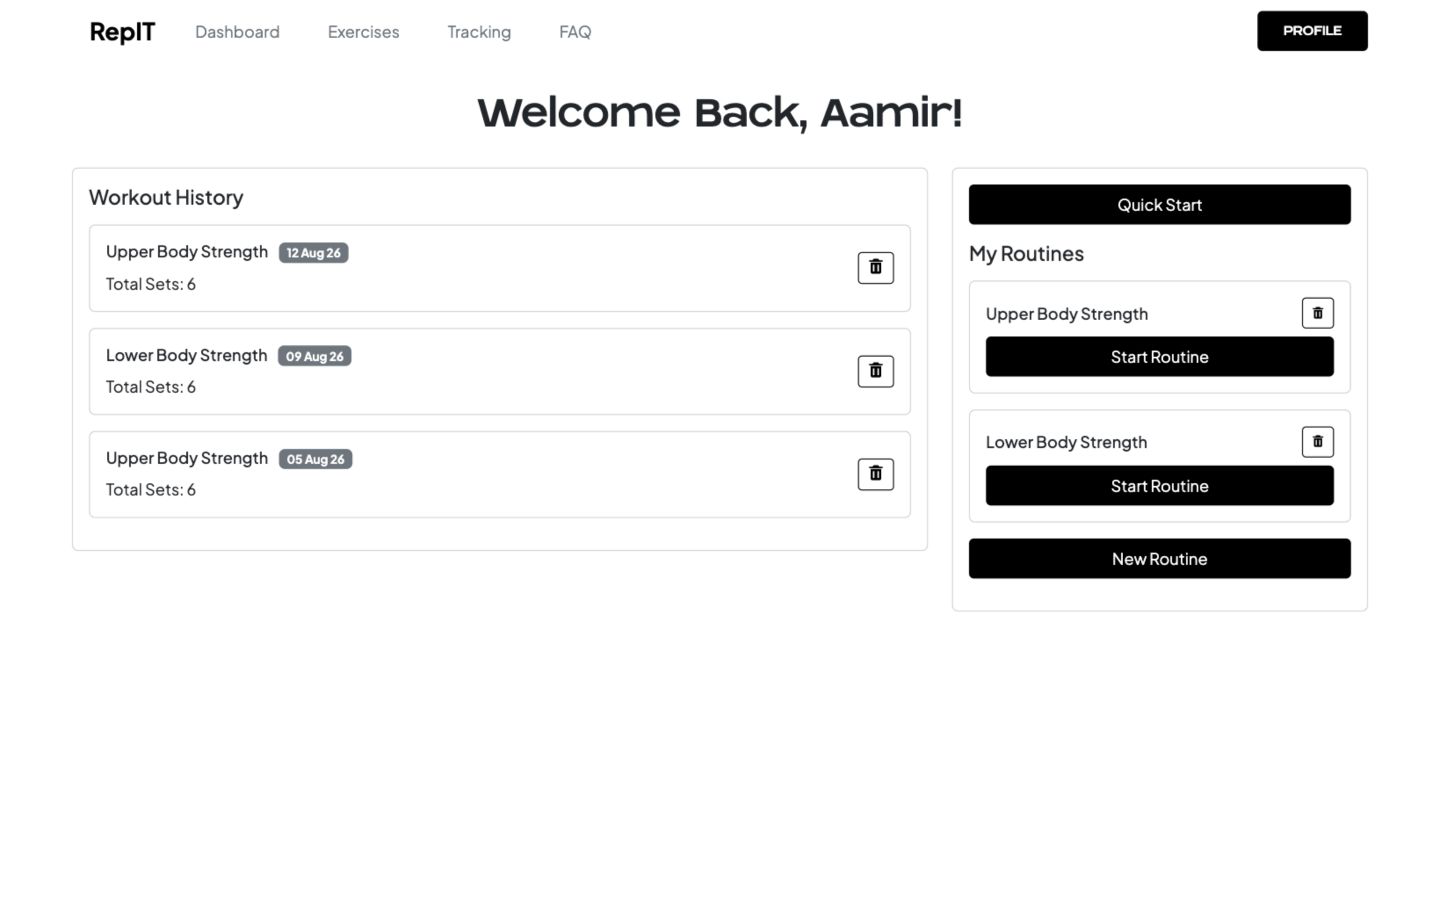
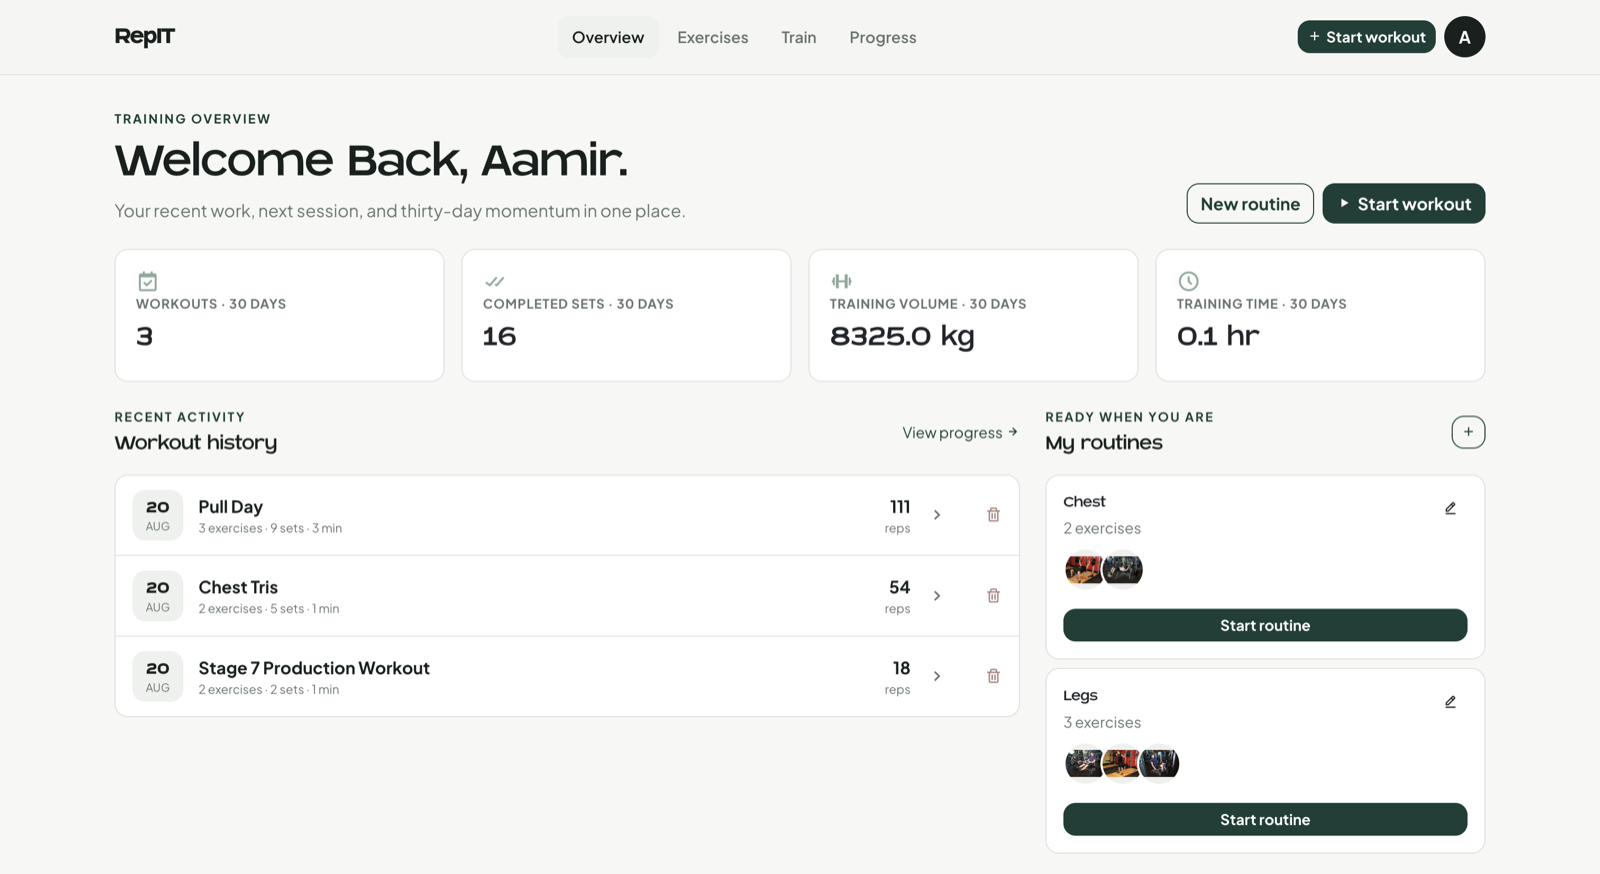
Refresh RepIT and VibeCheck case studies

diff --git a/app/templates/project_detail.html b/app/templates/project_detail.html
@@ -27,8 +27,11 @@
             <p>{{ project.summary }}</p>
             <div class="case-study-actions">
               <a class="button button-primary" href="#brief">Read the case study <span aria-hidden="true">↓</span></a>
+              {% if project.live_url %}
+                <a class="case-study-repository" href="{{ project.live_url }}" target="_blank" rel="noreferrer">View live demo <span aria-hidden="true">&#8599;&#xfe0e;</span><span class="visually-hidden"> (opens in a new tab)</span></a>
+              {% endif %}
               {% if project.repository_url %}
-                <a class="case-study-repository" href="{{ project.repository_url }}" target="_blank" rel="noreferrer">View repository <span aria-hidden="true">↗</span><span class="visually-hidden"> (opens in a new tab)</span></a>
+                <a class="case-study-repository" href="{{ project.repository_url }}" target="_blank" rel="noreferrer">View repository <span aria-hidden="true">&#8599;&#xfe0e;</span><span class="visually-hidden"> (opens in a new tab)</span></a>
               {% endif %}
             </div>
           </div>
@@ -41,7 +44,7 @@
                 <dd>{{ project.role }}</dd>
               </div>
               <div>
-                <dt>Selected evidence</dt>
+                <dt>Key result</dt>
                 <dd>{{ project.highlight }}</dd>
               </div>
               <div>

diff --git a/app/data/projects.py b/app/data/projects.py
@@ -8,7 +8,7 @@ FEATURED_PROJECTS = (
             "A research platform that connects academic metadata, citation graphs, "
             "and semantic embeddings to make relevant papers easier to discover."
         ),
-        "highlight": "29 API endpoints",
+        "highlight": "29 endpoints · 32 tests",
         "technologies": ("FastAPI", "PostgreSQL", "pgvector", "Docker"),
         "role": "Individual project",
         "repository_url": "https://github.com/aamirk24/scholargraph",
@@ -48,7 +48,7 @@ FEATURED_PROJECTS = (
             "A server-authoritative multiplayer strategy game with a minimax opponent, "
             "real-time rooms, and resilient player reconnection."
         ),
-        "highlight": "54 passing tests",
+        "highlight": "70% dissertation · 54 tests",
         "technologies": ("Python", "Flask", "Socket.IO", "pytest"),
         "role": "Individual dissertation",
         "repository_url": "https://github.com/aamirk24/Nonaga",
@@ -82,41 +82,43 @@ FEATURED_PROJECTS = (
     {
         "slug": "repit",
         "title": "RepIT",
-        "category": "Full-stack software",
+        "category": "Full-stack / Data",
         "year": "2025",
         "summary": (
-            "A workout platform for building routines, logging live sessions, and "
-            "tracking body measurements through a relational data model."
+            "A production-deployed strength-training platform for planning routines, "
+            "recording recoverable workouts, and analysing long-term progress."
         ),
-        "highlight": "1,500+ exercises cached",
-        "technologies": ("Flask", "SQLAlchemy", "JavaScript", "Chart.js"),
+        "highlight": "Live product · 35 tests",
+        "technologies": ("Flask", "PostgreSQL", "SQLAlchemy", "Chart.js"),
         "role": "Individual project",
-        "repository_url": None,
+        "repository_url": "https://github.com/aamirk24/RepIT",
+        "live_url": "https://repit-inq2.onrender.com/",
         "hero_image": "images/projects/repit-landing.png",
-        "hero_image_alt": "RepIT landing page with a fitness-focused hero and sign-up action",
-        "hero_image_caption": "The public entry point establishes RepIT as a focused workout-planning product.",
+        "hero_image_alt": "RepIT landing page introducing its strength-training workflow and dashboard",
+        "hero_image_caption": "The public product entry point connects planning, live training, and progress in one workflow.",
         "secondary_image": "images/projects/repit-dashboard.png",
-        "secondary_image_alt": "RepIT welcome-back dashboard showing workout history and saved routines",
-        "secondary_image_caption": "Workout history and reusable routines brought together in the signed-in dashboard.",
+        "secondary_image_alt": "RepIT dashboard showing training statistics, recent workouts, and a saved routine",
+        "secondary_image_caption": "Training totals, recent activity, and the next reusable routine in the signed-in dashboard.",
         "overview": (
-            "RepIT was designed to make workout planning and progress tracking part of "
-            "one continuous flow, from saving routines to logging sets during a live "
-            "session and reviewing body measurements later."
+            "RepIT connects routine planning, active workout tracking, immutable history, "
+            "strength analytics, and body measurements rather than treating them as "
+            "separate tools. It began as a university Flask project and was rebuilt into "
+            "a deployed product with explicit data-integrity and operational boundaries."
         ),
         "contribution": (
-            "I built the Flask application independently, including authentication, "
-            "user-specific routes, the relational schema, routine planning, live workout "
-            "logging, exercise data ingestion, and measurement visualisations."
+            "I independently rebuilt the application across its Flask services, relational "
+            "model, authentication, recoverable workout lifecycle, catalogue synchronisation, "
+            "analytics, responsive interface, automated checks, and production deployment."
         ),
         "decisions": (
-            "Modelled users, exercises, routines, sessions, sets, and measurements with foreign keys and many-to-many SQLAlchemy relationships.",
-            "Cached more than 1,500 ExerciseDB records locally and used scheduled refresh jobs to reduce repeated external API requests.",
-            "Used Flask-Login, password hashing, and protected routes to keep each user's fitness data separated.",
+            "Made active workouts recoverable and completed workouts immutable, with transaction-safe services and database constraints protecting ownership, ordering, and valid set values.",
+            "Replaced the retired paid API dependency with a checksum-verified snapshot of 873 Free Exercise DB records, while snapshotting exercise identity into completed history.",
+            "Kept kilograms and centimetres as canonical storage while providing metric and imperial presentation, defensible volume and estimated 1RM calculations, and accessible alternatives to charts.",
         ),
         "outcomes": (
-            "Delivered saved routines, live session logging, set, repetition, and weight tracking, and body-measurement charts.",
-            "Built a reusable local exercise catalogue from more than 1,500 external records.",
-            "Demonstrated a complete Flask workflow spanning authentication, relational modelling, external data, and interactive reporting.",
+            "Deployed the application through Render and Neon PostgreSQL with migrations, health checks, structured logging, security headers, and concurrency-safe startup preparation.",
+            "Delivered reusable routines, resumable live sessions, immutable workout history, measurement tracking, personal records, streaks, volume, and estimated 1RM trends.",
+            "Created 35 passing automated tests alongside migration, compilation, and dependency-audit checks in GitHub Actions.",
         ),
     },
     {
@@ -128,7 +130,7 @@ FEATURED_PROJECTS = (
             "A real-time auction system with role-based workflows, live bidding, "
             "test payments, notifications, and server-side bid validation."
         ),
-        "highlight": "17 backlog features",
+        "highlight": "17 backlog features delivered",
         "technologies": ("Flask", "SQLAlchemy", "Socket.IO", "Stripe"),
         "role": "Team of six",
         "repository_url": None,
@@ -168,7 +170,7 @@ FEATURED_PROJECTS = (
             "A five-class text-classification study comparing multiple models and "
             "engineered language features from movie overviews."
         ),
-        "highlight": "2,500 overviews analysed",
+        "highlight": "66.2% accuracy · 2,500 overviews",
         "technologies": ("Python", "TMDB API", "WEKA", "scikit-learn"),
         "role": "Individual project",
         "repository_url": None,
@@ -201,36 +203,35 @@ FEATURED_PROJECTS = (
         "category": "Hackathon / Applied AI",
         "year": "2025",
         "summary": (
-            "A hackathon prototype pairing facial-emotion predictions with Spotify "
-            "to generate mood-aligned playlists and confidence scores."
+            "A two-person hackathon prototype that classifies a visible facial expression "
+            "with a pretrained model and matches its label to a Spotify playlist."
         ),
-        "highlight": "Team of two",
-        "technologies": ("Python", "Flask", "Spotify API", "Machine learning"),
-        "role": "Team of two",
-        "repository_url": "https://github.com/aamirk24/vibe-check-final",
+        "highlight": "Two-day build · 18 tests",
+        "technologies": ("Flask", "Hugging Face", "PyTorch", "Spotify API"),
+        "role": "Two-person hackathon team",
+        "repository_url": "https://github.com/aamirk24/vibe-check",
         "hero_image": "images/projects/vibecheck-results.png",
-        "hero_image_alt": "VibeCheck mood-classification result with confidence score and playlist recommendation",
-        "hero_image_caption": "A detected mood, confidence score, and music recommendation presented as one result flow.",
-        "secondary_image": "images/projects/vibecheck-playlist.png",
-        "secondary_image_alt": "VibeCheck generated Spotify playlist and user feedback controls",
-        "secondary_image_caption": "The generated playlist remains actionable through embedded playback and feedback controls.",
+        "hero_image_alt": "VibeCheck facial-expression prediction with a confidence score and Spotify recommendation",
+        "hero_image_caption": "A predicted expression label, confidence score, and playlist recommendation in one result flow.",
         "overview": (
-            "VibeCheck explored a playful question during a hackathon: could a predicted "
-            "facial emotion become a useful starting point for music discovery?"
+            "Built during the two-day Encode Vibe Coding Hackathon in London, VibeCheck "
+            "explored how existing AI and music services could become a playful web "
+            "experience under tight delivery constraints."
         ),
         "contribution": (
-            "Working in a team of two, I co-created a prototype that connected a "
-            "pretrained facial-emotion model with Spotify-based playlist generation."
+            "Working in a team of two, I co-created the Flask prototype connecting webcam "
+            "capture, pretrained Hugging Face inference, Spotify search and playback, "
+            "confidence reporting, and optional corrective-feedback logging."
         ),
         "decisions": (
-            "Used a pretrained model so the limited hackathon time could focus on integration and the user journey rather than model training.",
-            "Returned confidence scores alongside the emotion prediction to make the model output more transparent.",
-            "Connected the predicted mood to Spotify API results to turn an AI inference into an immediate user-facing outcome.",
+            "Used the pretrained dima806 facial-expression classifier without claiming model training, fine-tuning, or ownership, keeping the work focused on integration and user experience.",
+            "Described outputs as visible facial-expression predictions rather than reliable measurements of internal mood, and surfaced both confidence and corrective feedback.",
+            "Mapped predicted labels to Spotify search phrases, embedded the first matching playlist, and made Comet ML logging optional with an explicit privacy notice.",
         ),
         "outcomes": (
-            "Produced a working hackathon prototype within the event's time constraints.",
-            "Combined computer-vision inference and an external music API in one end-to-end interaction.",
-            "Demonstrated rapid collaborative prototyping and integration across distinct services.",
+            "Produced a complete webcam-to-playlist interaction during a two-day collaborative hackathon.",
+            "Added 18 isolated automated tests and GitHub Actions without requiring model downloads, credentials, or external network calls.",
+            "Improved the prototype with accessible feedback states, clearer privacy wording, safer request handling, and in-memory Spotify token caching.",
         ),
     },
 )
